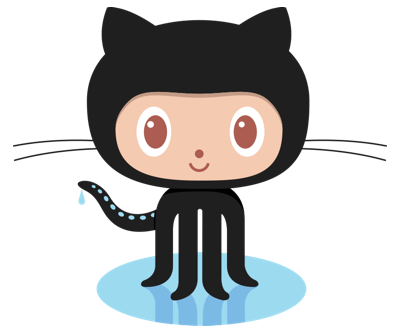
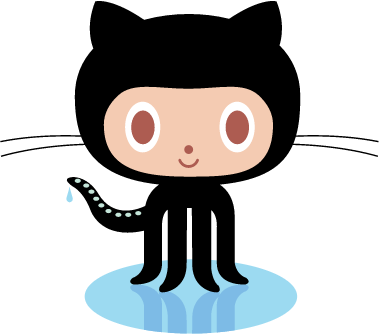
Created retina test images from SVG.

diff --git a/static/demos.js b/static/demos.js
@@ -1,1 +1,1 @@
[2 lines of base64/hex data omitted]

diff --git a/static/demos/basic/retina-image.js b/static/demos/basic/retina-image.js
@@ -8,7 +8,7 @@ var group = new Facade.Group({
         scale: 0.5
     }),
     label = new Facade.Text('Click to see non-retina image', {
-        x: 200,
+        x: 189,
         y: 370,
         anchor: 'center'
     });
